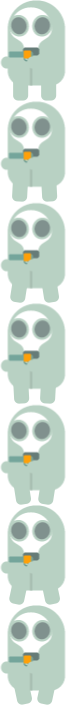
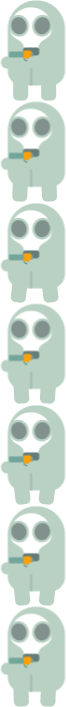
shooting: follow the player, bullet numbers, angle variation, firing rate

diff --git a/src/scenes/Level1Scene.ts b/src/scenes/Level1Scene.ts
@@ -1,4 +1,5 @@
 import Phaser from 'phaser';
+import { WeaponPlugin } from 'phaser3-weapon-plugin';
 
 import createPlayerAnims from '../anims/PlayerAnims';
 import createBackgroundAnims from '../anims/BackgroundAnims';
@@ -7,6 +8,10 @@ export default class Level1Scene extends Phaser.Scene {
   player;
   playerSpeed = 600;
   // Default speed = 120
+
+  mouse;
+  mouseInput;
+
   pond;
   signs;
   blank_blockers;
@@ -19,6 +24,20 @@ export default class Level1Scene extends Phaser.Scene {
   barrels;
   barrelShadow;
   floatWood;
+
+  bullet;
+
+  // control firing rate
+  shootControl = false;
+
+  // Weapon types
+  // 1 = revolver, 2 = hand gun, 3 = shot gun, 4 = machine gun
+  weaponType = 1;
+  // isRevolver = true;
+  // isHandGun = false;
+  // isShotGun = false;
+  // isMachineGun = false;
+
   cursors: Phaser.Types.Input.Keyboard.CursorKeys;
   // platforms;
   // stars;
@@ -34,6 +53,14 @@ export default class Level1Scene extends Phaser.Scene {
   preload() {}
 
   create() {
+    // Install weapon plugin into a scene
+    this.plugins.installScenePlugin(
+      'WeaponPlugin',
+      WeaponPlugin,
+      'weapons',
+      this
+    );
+
     //  Set the camera and physics bounds to be the size of 4x4 bg images
     this.cameras.main.setBounds(0, 0, 2308, 1478);
     this.physics.world.setBounds(0, 0, 2308, 1478);
@@ -100,15 +127,6 @@ export default class Level1Scene extends Phaser.Scene {
     this.physics.add.collider(this.player, this.blank_blockers);
     this.physics.add.collider(this.player, this.barrels);
 
-    // // Platforms
-    // this.platforms = this.physics.add.staticGroup();
-
-    // this.platforms.create(400, 568, 'ground').setScale(2).refreshBody();
-
-    // this.platforms.create(600, 400, 'ground');
-    // this.platforms.create(50, 250, 'ground');
-    // this.platforms.create(750, 220, 'ground');
-
     // Set camera to follow the player
     this.cameras.main.startFollow(this.player, true, 0.05, 0.05);
 
@@ -125,19 +143,53 @@ export default class Level1Scene extends Phaser.Scene {
     // Animations
     createPlayerAnims(this.anims);
     createBackgroundAnims(this.anims);
-    // // Stars
-    // this.stars = this.physics.add.group({
-    //   key: 'star',
-    //   repeat: 11,
-    //   setXY: { x: 12, y: 0, stepX: 70 },
-    // });
+
+    //for mouse position
+    this.mouseInput = this.input;
+
+    //for mouse click event
+    this.mouse = this.input.mousePointer;
+
+    // // fire bullet
+    // this.bullet = this.physics.add.image(960, 540, 'bullet');
+
+    //  Creates 30 bullets, using the 'bullet' graphic
+    this.weapon = this.add.weapon(30, 'bullet');
+
+    // Enable physics debugging for the bullets
+    this.weapon.debugPhysics = true;
+
+    //  The bullet will be automatically killed when it leaves the world bounds
+    console.log(`setting bulletKillType`);
+    // console.log(consts);
+
+    // this.weapon.bulletKillType = WeaponPlugin.consts.KillType.KILL_WORLD_BOUNDS;
+
+    //  Because our bullet is drawn facing up, we need to offset its rotation:
+    this.weapon.bulletAngleOffset = 90;
+
+    //  The speed at which the bullet is fired
+    this.weapon.bulletSpeed = 500;
+
+    //  Speed-up the rate of fire, allowing them to shoot 1 bullet every 60ms
+    this.weapon.fireRate = 100;
+
+    //  Tell the Weapon to track the 'player' Sprite
+    this.weapon.trackSprite(this.player);
+
+    //  Add a variance to the bullet angle by +- this value
+    this.weapon.bulletAngleVariance = 2;
+
+    // this.sprite = this.add.sprite(320, 500, 'ship');
+
+    // this.physics.add.existing(this.sprite);
+
+    // this.sprite.body.setDrag(70);
+    // this.sprite.body.maxVelocity.set(200);
 
     // this.stars.children.iterate(function (child) {
     //   child.setBounceY(Phaser.Math.FloatBetween(0.4, 0.8));
     // });
-
-    // // let Star collide with platforms
-    // this.physics.add.collider(this.stars, this.platforms);
 
     // this.physics.add.overlap(
     //   this.player,
@@ -152,19 +204,6 @@ export default class Level1Scene extends Phaser.Scene {
     //   fontSize: '32px',
     //   fill: '#000',
     // });
-
-    // // Bombs
-    // this.bombs = this.physics.add.group();
-
-    // this.physics.add.collider(this.bombs, this.platforms);
-
-    // this.physics.add.collider(
-    //   this.player,
-    //   this.bombs,
-    //   this.hitBomb,
-    //   null,
-    //   this
-    // );
   }
 
   update() {
@@ -201,6 +240,13 @@ export default class Level1Scene extends Phaser.Scene {
       !this.cursors.down.isDown
     ) {
       this.player.play('turn');
+    }
+
+    //mouse clicked
+    if (this.mouse.isDown) {
+      // this.firingRate();
+      // this.weapon.fire();
+      this.weapon.fireAtPointer();
     }
 
     // if (this.cursors.up.isDown && this.player.body.touching.down) {

diff --git a/src/anims/PlayerAnims.ts b/src/anims/PlayerAnims.ts
@@ -4,10 +4,10 @@ export default function createPlayerAnims(anims) {
     key: 'left',
     frames: anims.generateFrameNames('revolver-left', {
       start: 0,
-      end: 11,
+      end: 9,
       zeroPad: 2,
       prefix: 'revolver_left_walk_',
-      suffix: '',
+      suffix: '.png',
     }),
     frameRate: 25,
     repeat: -1,
@@ -23,10 +23,10 @@ export default function createPlayerAnims(anims) {
     key: 'turn',
     frames: anims.generateFrameNames('revolver-left', {
       start: 0,
-      end: 0,
+      end: 9,
       zeroPad: 2,
       prefix: 'revolver_left_walk_',
-      suffix: '',
+      suffix: '.png',
     }),
     frameRate: 25,
     repeat: -1,
@@ -36,10 +36,10 @@ export default function createPlayerAnims(anims) {
     key: 'right',
     frames: anims.generateFrameNames('revolver-left', {
       start: 0,
-      end: 11,
+      end: 9,
       zeroPad: 2,
       prefix: 'revolver_left_walk_',
-      suffix: '',
+      suffix: '.png',
     }),
     frameRate: 25,
     repeat: -1,
@@ -49,10 +49,10 @@ export default function createPlayerAnims(anims) {
     key: 'up',
     frames: anims.generateFrameNames('revolver-left', {
       start: 0,
-      end: 11,
+      end: 9,
       zeroPad: 2,
       prefix: 'revolver_left_walk_',
-      suffix: '',
+      suffix: '.png',
     }),
     frameRate: 25,
     repeat: -1,
@@ -62,10 +62,10 @@ export default function createPlayerAnims(anims) {
     key: 'down',
     frames: anims.generateFrameNames('revolver-left', {
       start: 0,
-      end: 11,
+      end: 9,
       zeroPad: 2,
       prefix: 'revolver_left_walk_',
-      suffix: '',
+      suffix: '.png',
     }),
     frameRate: 25,
     repeat: -1,

diff --git a/src/scenes/PreloaderScene.ts b/src/scenes/PreloaderScene.ts
@@ -17,6 +17,9 @@ export default class PreloaderScene extends Phaser.Scene {
     this.load.image('truck2', 'assets/img/truck2.png');
     this.load.image('barrels', 'assets/img/barrels.png');
     this.load.image('barrelShadow', 'assets/img/barrelShadow.png');
+    this.load.image('bullet', 'assets/img/bullet.png');
+
+    // load UI images
     this.load.image('vignetting', 'assets/img/UI/vignetting.png');
 
     // load background animations

diff --git a/src/scenes/Level1UIScene.ts b/src/scenes/Level1UIScene.ts
@@ -13,5 +13,7 @@ export default class Level1UIScene extends Phaser.Scene {
   create() {
     this.lights = this.physics.add.image(1449, 443, 'lights');
     this.vignetting = this.physics.add.image(0, 0, 'vignetting').setOrigin(0);
+
+    this.input.setDefaultCursor('url(assets/img/UI/aim.png), pointer');
   }
 }
